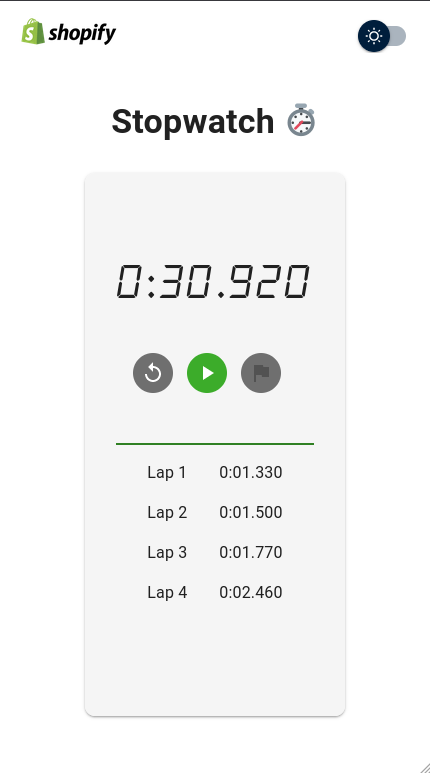
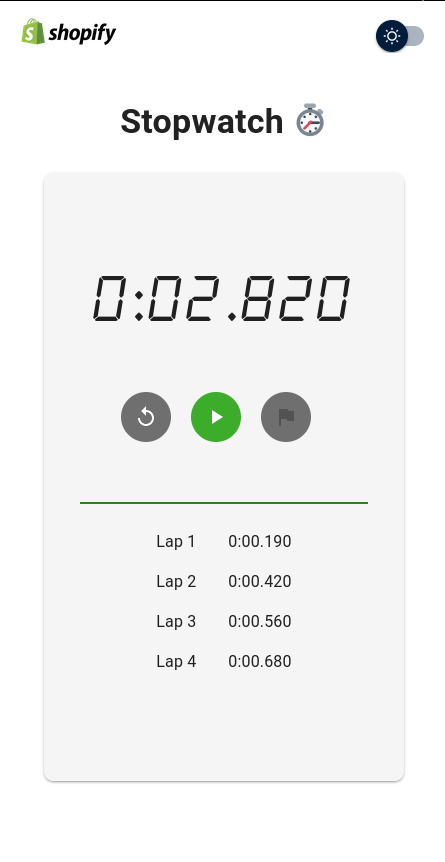
minor ui fixes

diff --git a/src/styles/stopwatchButtonStyles.ts b/src/styles/stopwatchButtonStyles.ts
@@ -1,14 +1,14 @@
 const stopwatchButtonStyles = {
     startStopButtonStyle: (theme: any) => ({ 
         width: {
-            xs: '40px',
+            xs: '50px',
             sm: '50px', 
             md: '50px', 
             lg: '60px', 
             xl: '70px' 
         },
         height: {
-            xs: '40px', 
+            xs: '50px', 
             sm: '50px', 
             md: '50px', 
             lg: '60px', 
@@ -23,14 +23,14 @@ const stopwatchButtonStyles = {
     }),
     resetLapButtonStyle: {
         width: {
-            xs: '40px', 
+            xs: '50px', 
             sm: '50px',
             md: '50px', 
             lg: '60px', 
             xl: '70px' 
         },
         height: {
-            xs: '40px', 
+            xs: '50px', 
             sm: '50px', 
             md: '50px', 
             lg: '60px', 

diff --git a/src/styles/stopwatchStyles.ts b/src/styles/stopwatchStyles.ts
@@ -22,10 +22,13 @@ const stopwatchStyles = {
     alignItems: "center",
     justifyContent: "space-evenly",
     margin: "20px auto",
+    [theme.breakpoints.down("md")]: {
+      width: "80%",
+    },
   }),
   timeDisplay: {
     fontSize: {
-        xs: "3rem", 
+        xs: "4rem", 
         sm: "4.5rem", 
         md: "5.5rem", 
         lg: "6.5rem", 
@@ -45,6 +48,7 @@ const stopwatchStyles = {
     textAlign: "center",
     display: "flex",
     justifyContent: "center",
+    paddingTop: "10px",
     borderTop: theme.palette.mode === "light" ? "2px solid #308023" : "2px solid #53D93D",
     width: "35%",
     [theme.breakpoints.down("md")]: {
